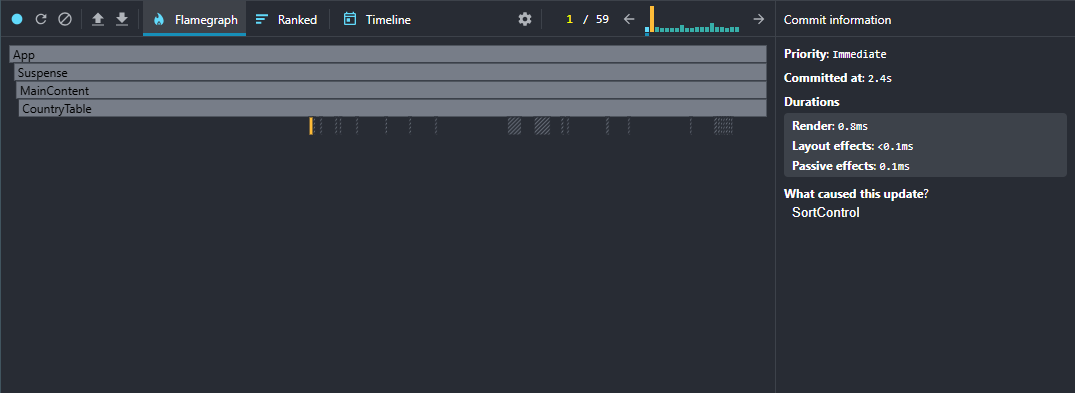
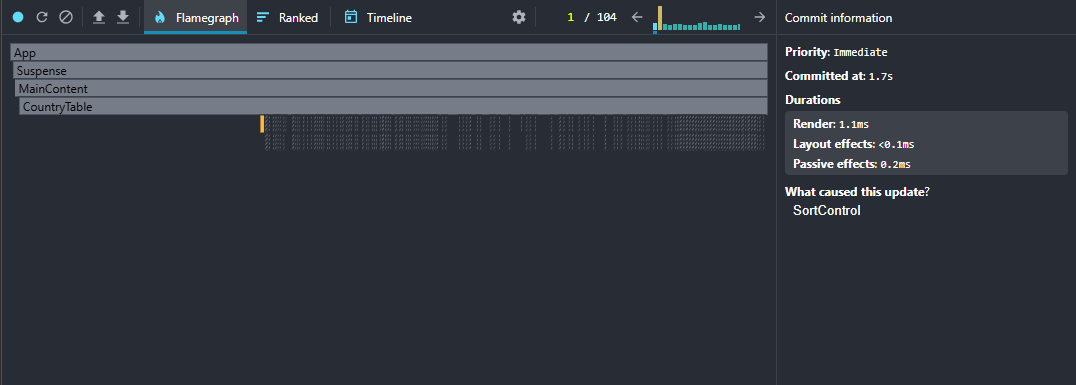
feat: optimize CountryRow, CountryTable, SortControl with memoization and useMemo/useCallback

diff --git a/src/components/CountryTable/CountryTable.tsx b/src/components/CountryTable/CountryTable.tsx
@@ -1,4 +1,4 @@
-import React, { useState, type JSX } from 'react';
+import React, { useState, useMemo, useCallback, type JSX } from 'react';
 import type { DataSet } from '../../types';
 import { CountryRow } from './CountryRow';
 import { Modal } from '../Modal/Modal.tsx';
@@ -19,54 +19,90 @@ const allowedRegions: string[] = [
 ];
 
 export const CountryTable: React.FC<Props> = ({ data }: Props): JSX.Element => {
-  const years: number[] = getAllYears(data);
-  const [selectedYear, setSelectedYear] = useState<number>(
-    years.length > 0 ? years[years.length - 1] : FALLBACK_YEAR
+  const years: number[] = useMemo((): number[] => getAllYears(data), [data]);
+  const [selectedYear, setSelectedYear] = useState(
+    years.length ? years[years.length - 1] : FALLBACK_YEAR
   );
-
-  const regions: string[] = Object.keys(data).filter((key: string): boolean =>
-    allowedRegions.includes(key)
+  const regions: string[] = useMemo(
+    (): string[] =>
+      Object.keys(data).filter((key: string): boolean =>
+        allowedRegions.includes(key)
+      ),
+    [data]
   );
-
-  const [region, setRegion] = useState<string>('All');
-  const [query, setQuery] = useState<string>('');
+  const [region, setRegion] = useState('All');
+  const [query, setQuery] = useState('');
   const [currentSort, setCurrentSort] = useState<SortKind>('name-asc');
 
-  const baseColumns = ['year', 'population', 'co2', 'co2_per_capita'] as const;
-  const additionalColumns = [
-    'methane',
-    'oil_co2',
-    'temperature_change_from_co2',
-    'total_ghg',
-  ] as const;
+  const baseColumns: string[] = useMemo(
+    (): string[] => ['year', 'population', 'co2', 'co2_per_capita'],
+    []
+  );
+  const additionalColumnsList: string[] = useMemo(
+    (): string[] => [
+      'methane',
+      'oil_co2',
+      'temperature_change_from_co2',
+      'total_ghg',
+    ],
+    []
+  );
   const [selectedColumns, setSelectedColumns] = useState<string[]>([]);
-  const [showSelector, setShowSelector] = useState<boolean>(false);
-  const allColumns: string[] = [...baseColumns, ...selectedColumns];
+  const [showSelector, setShowSelector] = useState(false);
 
-  let entries = Object.entries(data);
+  const allColumns: string[] = useMemo(
+    (): string[] => [...baseColumns, ...selectedColumns],
+    [baseColumns, selectedColumns]
+  );
 
-  if (region !== 'All') {
-    entries = entries.filter(([name]): boolean => name === region || false);
-  }
+  const handleYearChange = useCallback(
+    (e: React.ChangeEvent<HTMLSelectElement>): void =>
+      setSelectedYear(Number(e.target.value)),
+    []
+  );
+  const handleRegionChange = useCallback(
+    (e: React.ChangeEvent<HTMLSelectElement>): void =>
+      setRegion(e.target.value),
+    []
+  );
+  const handleQueryChange = useCallback(
+    (e: React.ChangeEvent<HTMLInputElement>): void => setQuery(e.target.value),
+    []
+  );
+  const handleColumnSelectorClose: () => void = useCallback(
+    (): void => setShowSelector(false),
+    []
+  );
+  const handleSortChange = useCallback(
+    (sort: SortKind): void => setCurrentSort(sort),
+    []
+  );
 
-  if (query.trim().length > 0) {
-    const q: string = query.trim().toLowerCase();
-    entries = entries.filter(([name]): boolean =>
-      name.toLowerCase().includes(q)
-    );
-  }
+  const filteredEntries = useMemo(() => {
+    let entries = Object.entries(data);
 
-  entries.sort(([nameA, countryA], [nameB, countryB]): number => {
-    if (currentSort === 'name-asc' || currentSort === 'name-desc') {
-      const cmp: number = nameA.localeCompare(nameB);
-      return currentSort === 'name-asc' ? cmp : -cmp;
+    if (region !== 'All')
+      entries = entries.filter(([name]): boolean => name === region);
+
+    if (query.trim()) {
+      const q: string = query.trim().toLowerCase();
+      entries = entries.filter(([name]): boolean =>
+        name.toLowerCase().includes(q)
+      );
     }
 
-    const a: number = getPopulationAtYear(countryA, selectedYear) ?? 0;
-    const b: number = getPopulationAtYear(countryB, selectedYear) ?? 0;
+    entries.sort(([nameA, countryA], [nameB, countryB]): number => {
+      if (currentSort === 'name-asc' || currentSort === 'name-desc') {
+        const cmp: number = nameA.localeCompare(nameB);
+        return currentSort === 'name-asc' ? cmp : -cmp;
+      }
+      const a: number = getPopulationAtYear(countryA, selectedYear) ?? 0;
+      const b: number = getPopulationAtYear(countryB, selectedYear) ?? 0;
+      return currentSort === 'pop-asc' ? a - b : b - a;
+    });
 
-    return currentSort === 'pop-asc' ? a - b : b - a;
-  });
+    return entries;
+  }, [data, region, query, currentSort, selectedYear]);
 
   return (
     <div className="overflow-x-auto mt-4">
@@ -75,12 +111,12 @@ export const CountryTable: React.FC<Props> = ({ data }: Props): JSX.Element => {
           <label className="text-slate-800 font-semibold">Year:</label>
           <select
             value={selectedYear}
-            onChange={(e): void => setSelectedYear(Number(e.target.value))}
+            onChange={handleYearChange}
             className="px-2 py-1 rounded border border-slate-600 bg-white text-slate-800"
           >
-            {years.map((y: number) => (
-              <option key={y} value={y}>
-                {y}
+            {years.map((year: number) => (
+              <option key={year} value={year}>
+                {year}
               </option>
             ))}
           </select>
@@ -90,13 +126,13 @@ export const CountryTable: React.FC<Props> = ({ data }: Props): JSX.Element => {
           <label className="text-slate-800 font-semibold">Region:</label>
           <select
             value={region}
-            onChange={(e): void => setRegion(e.target.value)}
+            onChange={handleRegionChange}
             className="px-2 py-1 rounded border border-slate-600 bg-white text-slate-800"
           >
             <option value="All">All</option>
-            {regions.map((r: string) => (
-              <option key={r} value={r}>
-                {r}
+            {regions.map((region: string) => (
+              <option key={region} value={region}>
+                {region}
               </option>
             ))}
           </select>
@@ -107,13 +143,16 @@ export const CountryTable: React.FC<Props> = ({ data }: Props): JSX.Element => {
           <input
             type="text"
             value={query}
-            onChange={(e): void => setQuery(e.target.value)}
+            onChange={handleQueryChange}
             placeholder="Country name…"
             className="px-2 py-1 rounded border border-slate-600 bg-white text-slate-800"
           />
         </div>
 
-        <SortControl initialSort={currentSort} onSortChange={setCurrentSort} />
+        <SortControl
+          initialSort={currentSort}
+          onSortChange={handleSortChange}
+        />
 
         <div className="ml-auto">
           <button
@@ -134,26 +173,24 @@ export const CountryTable: React.FC<Props> = ({ data }: Props): JSX.Element => {
           </tr>
         </thead>
         <tbody>
-          {entries.map(
-            ([name, country]): JSX.Element => (
-              <CountryRow
-                key={name}
-                name={name}
-                country={country}
-                columns={allColumns}
-                selectedYear={selectedYear}
-              />
-            )
-          )}
+          {filteredEntries.map(([name, country]) => (
+            <CountryRow
+              key={name}
+              name={name}
+              country={country}
+              columns={allColumns}
+              selectedYear={selectedYear}
+            />
+          ))}
         </tbody>
       </table>
 
       {showSelector && (
         <Modal
-          available={[...additionalColumns]}
+          available={[...additionalColumnsList]}
           selected={selectedColumns}
           onChange={setSelectedColumns}
-          onClose={(): void => setShowSelector(false)}
+          onClose={handleColumnSelectorClose}
         />
       )}
     </div>

diff --git a/src/components/CountryTable/CountryRow.tsx b/src/components/CountryTable/CountryRow.tsx
@@ -1,4 +1,10 @@
-import React, { useEffect, useState, type JSX } from 'react';
+import React, {
+  useState,
+  useEffect,
+  useMemo,
+  useCallback,
+  type JSX,
+} from 'react';
 import type { CountryData, YearlyData } from '../../types';
 import { ExpandedTable } from './ExtandedTable.tsx';
 
@@ -13,7 +19,7 @@ function getAtYear(country: CountryData, year: number): YearlyData | undefined {
   return country.data.find((d: YearlyData): boolean => d.year === year);
 }
 
-export const CountryRow: React.FC<Props> = ({
+const CountryRowComponent: React.FC<Props> = ({
   name,
   country,
   columns,
@@ -22,21 +28,28 @@ export const CountryRow: React.FC<Props> = ({
   const [expanded, setExpanded] = useState<boolean>(false);
   const [flash, setFlash] = useState<boolean>(false);
 
+  const rowAtYear: YearlyData | undefined = useMemo(
+    (): YearlyData | undefined => getAtYear(country, selectedYear),
+    [country, selectedYear]
+  );
+  const population: number | undefined = useMemo(
+    (): number | undefined => rowAtYear?.population,
+    [rowAtYear]
+  );
+
   useEffect((): (() => void) => {
     setFlash(true);
-    const t = setTimeout((): void => setFlash(false), 700);
-    return (): void => clearTimeout(t);
+    const timeout = setTimeout((): void => setFlash(false), 700);
+    return (): void => clearTimeout(timeout);
   }, [selectedYear]);
 
-  const rowAtYear: YearlyData | undefined = getAtYear(country, selectedYear);
-  const population: number | undefined = rowAtYear?.population;
+  const toggleExpanded: () => void = useCallback((): void => {
+    setExpanded((prev: boolean): boolean => !prev);
+  }, []);
 
   return (
     <>
-      <tr
-        className="cursor-pointer hover:bg-gray-100"
-        onClick={(): void => setExpanded((p: boolean): boolean => !p)}
-      >
+      <tr className="cursor-pointer hover:bg-gray-100" onClick={toggleExpanded}>
         <td className="p-2 border text-slate-700">{name}</td>
         <td className="p-2 border text-slate-700">
           {country.iso_code ?? 'N/A'}
@@ -57,3 +70,16 @@ export const CountryRow: React.FC<Props> = ({
     </>
   );
 };
+
+export const CountryRow = React.memo(
+  CountryRowComponent,
+  (prevProps, nextProps): boolean => {
+    return (
+      prevProps.selectedYear === nextProps.selectedYear &&
+      prevProps.name === nextProps.name &&
+      prevProps.columns === nextProps.columns &&
+      prevProps.country.data === nextProps.country.data &&
+      prevProps.country.iso_code === nextProps.country.iso_code
+    );
+  }
+);

diff --git a/src/components/SortControl/SortControl.tsx b/src/components/SortControl/SortControl.tsx
@@ -1,4 +1,4 @@
-import React, { useState, useEffect } from 'react';
+import React, { useState, useEffect, useCallback, memo } from 'react';
 
 export type SortKind = 'name-asc' | 'name-desc' | 'pop-asc' | 'pop-desc';
 
@@ -7,11 +7,18 @@ interface SortControlProps {
   onSortChange: (sort: SortKind) => void;
 }
 
-export const SortControl: React.FC<SortControlProps> = ({
+const SortControlComponent: React.FC<SortControlProps> = ({
   initialSort = 'name-asc',
   onSortChange,
 }) => {
   const [internalSort, setInternalSort] = useState<SortKind>(initialSort);
+
+  const handleSortChange = useCallback(
+    (e: React.ChangeEvent<HTMLSelectElement>): void => {
+      setInternalSort(e.target.value as SortKind);
+    },
+    []
+  );
 
   useEffect((): void => {
     onSortChange(internalSort);
@@ -22,7 +29,7 @@ export const SortControl: React.FC<SortControlProps> = ({
       <label className="text-slate-800 font-semibold">Sort:</label>
       <select
         value={internalSort}
-        onChange={(e): void => setInternalSort(e.target.value as SortKind)}
+        onChange={handleSortChange}
         className="px-2 py-1 rounded border border-slate-600 bg-white text-slate-800"
       >
         <option value="name-asc">Name ↑</option>
@@ -33,3 +40,5 @@ export const SortControl: React.FC<SortControlProps> = ({
     </div>
   );
 };
+
+export const SortControl = memo(SortControlComponent);
